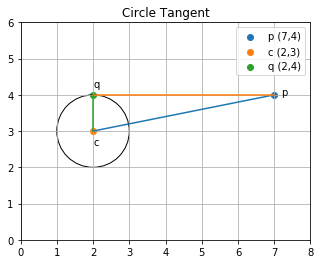
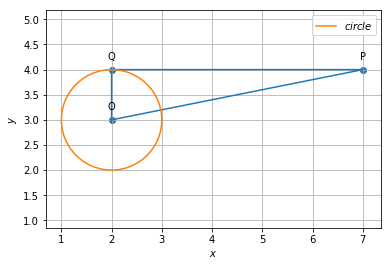
Add files via upload

Changed region(s): [[0.0, 0.0303, 0.9969, 0.9697]]

diff --git a/Assignment6/Assignment6.py b/Assignment6/Assignment6.py
@@ -1,31 +1,47 @@
-# -*- coding: utf-8 -*-
-"""
-@author: Satyanarayana
-"""
-#import numpy as np
+import numpy as np
 import matplotlib.pyplot as plt
-#from mpl_toolkits import mplot3d
-#plt =pyplot.Circle((0,0),5)
+from numpy import linalg as LA
 
-fig, ax = plt.subplots()
+#Generating points on a circle
+def circ_gen(O,r):
+	len = 50
+	theta = np.linspace(0,2*np.pi,len)
+	x_circ = np.zeros((2,len))
+	x_circ[0,:] = r*np.cos(theta)
+	x_circ[1,:] = r*np.sin(theta)
+	x_circ = (x_circ.T + O).T
+	return x_circ
 
-ax.set_xlim((0, 8))
-ax.set_ylim((0, 6))
-#ax.set(xlim=(-1, 1), ylim = (-1, 1))
-ax.set_aspect('equal', adjustable='box')
-a_circle = plt.Circle((2, 3), 1,color="black", fill=False)
-ax.add_artist(a_circle)
-ax.grid()
+#Input parameters
+O = np.array(([2,3]))
+P = np.array(([7,4]))
+Q = np.array(([2,4]))
+f = 12
+r = np.sqrt(LA.norm(O)**2-f)
 
-ax.set_title('Circle Tangent') 
-ax.scatter(7,4,label='p (7,4)') 
-ax.scatter(2,3,label='c (2,3)')
-ax.scatter(2,4,label='q (2,4)') 
-plt.annotate("p", (7.2, 4))
-plt.annotate("c", (2, 2.6))
-plt.annotate("q", (2, 4.2))
-ax.plot((7,2),(4,3))
-ax.plot((7,2),(4,4))
-ax.plot((2,2),(3,4))
-ax.legend()
-plt.show()
+##Generating the circle
+x_circ= circ_gen(O,r)
+
+a= (np.array(([O,P,Q,O]))).T
+plt.plot((a[0,:]),(a[1,:]))
+
+#Plotting the circle
+plt.plot(x_circ[0,:],x_circ[1,:],label='$circle$')
+
+#Labeling the coordinates
+tri_coords = np.vstack((P,Q,O)).T
+plt.scatter(tri_coords[0,:], tri_coords[1,:])
+vert_labels = ['P','Q','O']
+for i, txt in enumerate(vert_labels):
+    plt.annotate(txt, # this is the text
+                 (tri_coords[0,i], tri_coords[1,i]), # this is the point to label
+                 textcoords="offset points", # how to position the text
+                 xytext=(0,10), # distance from text to points (x,y)
+                 ha='center') # horizontal alignment can be left, right or center
+
+plt.xlabel('$x$')
+plt.ylabel('$y$')
+plt.legend(loc='best')
+plt.grid() # minor
+plt.axis('equal')
+
